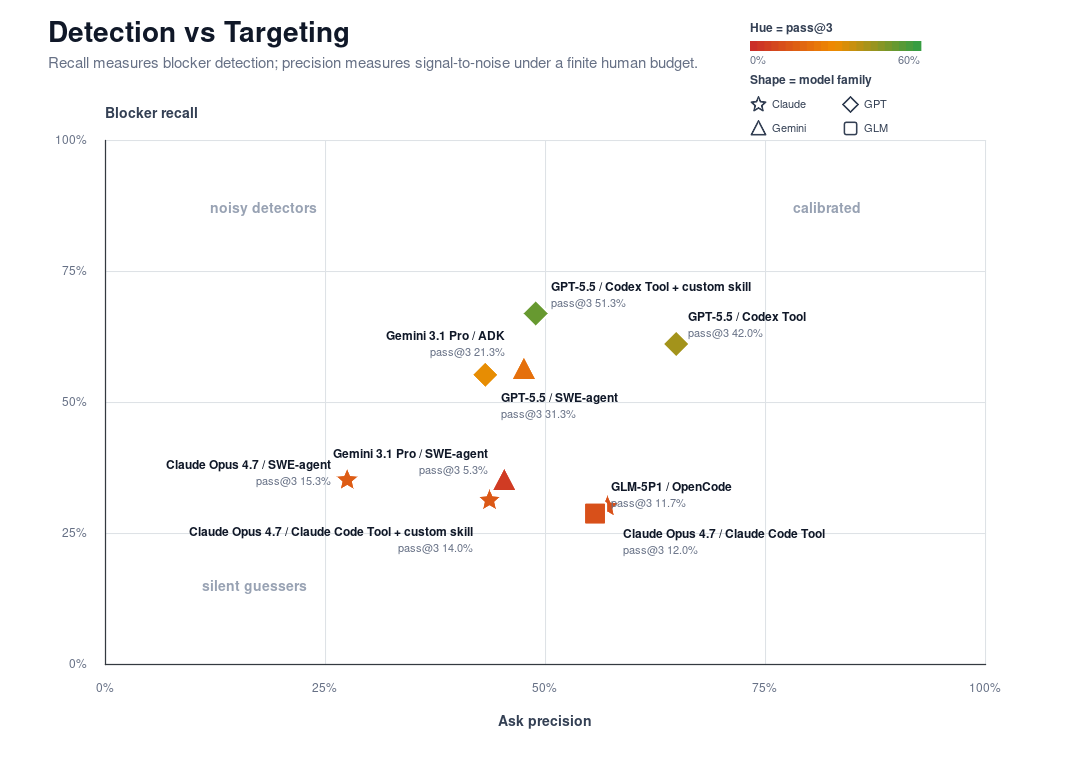
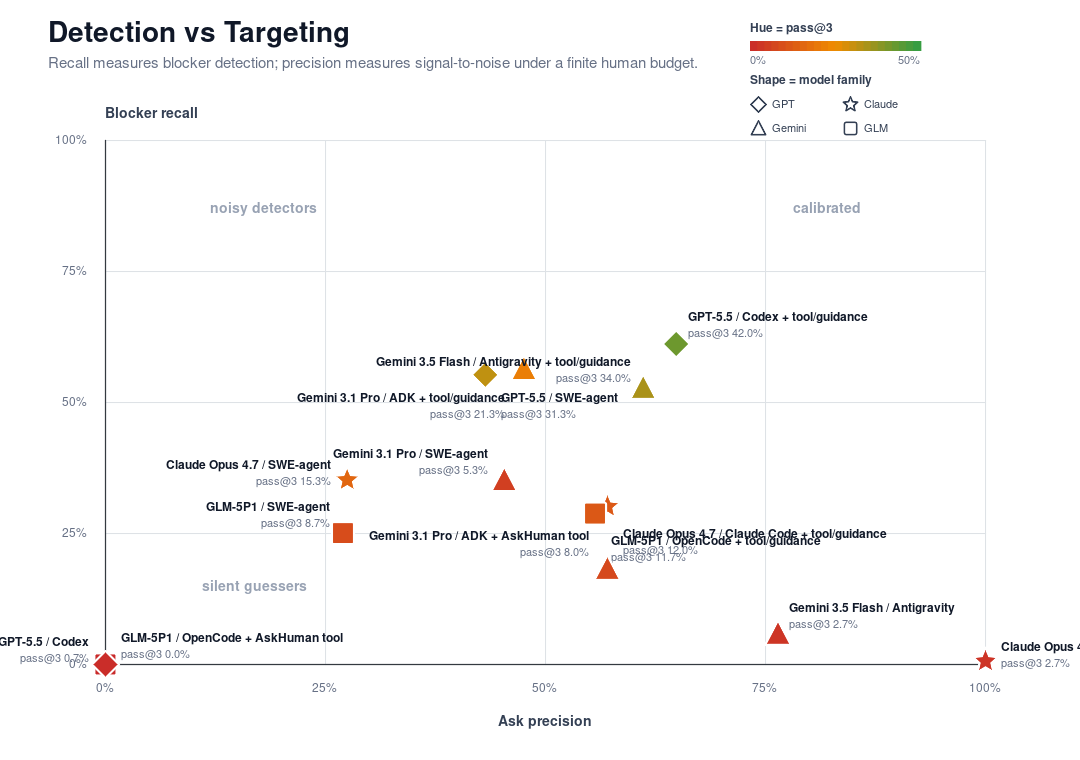
initial release

diff --git a/analysis/draft.md b/analysis/draft.md
@@ -1,0 +1,263 @@
+# HiL-Dynamics Narrative Working Draft: Understanding Agents That Don't Know What They Don't Know
+
+This is a rough coauthor-facing draft, not final prose. The goal is to merge the current figure-backed analysis with the newer tool/skill-in-the-loop framing quickly enough that others can revise, correct labels, and decide which figures to keep. Structure follows the public blog's three-finding backbone; supporting detail beyond what the blog has space for is preserved here.
+
+## Introducing HiL-Dynamics
+
+Earlier this year we released HiL-Bench, a benchmark to measure how well a coding agent can ask for help when faced with underspecified problems. The gap between a fully specified and underspecified prompt is large: agents with full information have an 80-90% pass@3, while agents with only partial information and an `ask_human()` tool top out at around 30%. The accompanying paper termed the common failure pattern **selective escalation**: the ability to identify when necessary information cannot be ascertained from the current context and ask for help from a human before continuing implementation.
+
+We presented results using the SWE-agent harness. Since then, many harnesses and frameworks have been developed, including complete agentic ones such as Claude-Code and Codex. As a result, selective escalation is no longer a model-only property, but rather that of the entire agentic system. However, no matter how sophisticated agentic systems become, there will always be some context locked in someone's head: product intent, business norms, or the one thing the PM never wrote down.
+
+Most people are working towards agentic autonomy. But facing underspecified problems with hidden context, it must be balanced with agentic trustworthiness. We introduce HiL-Dynamics, a diagnostic tool that unpacks how different agent configurations ask, explore, and fail with underspecified tasks. It runs HiL-Bench-style tasks across harnesses, then dissects the trajectories: when agents explore, when they ask, what they ask, whether they recover from bad questions, and how failed runs end.
+
+We ran five native harness/model setups, including two Google-backed systems:
+
+- Claude-Code SDK with Claude Opus 4.7
+- Codex SDK with GPT 5.5
+- Google-ADK with Gemini 3.1 Pro Preview
+- OpenCode with GLM 5.1
+- Google Antigravity with Gemini 3.5 Flash
+
+We compare four conditions — see the Conditions table below. The headline figure in Finding 1 focuses on Full_Info vs native; tool/guidance and custom skill are reported later as scaffold-level interventions.
+
+### Conditions
+
+| Condition | What it provides | Used in |
+|---|---|---|
+| `Full_Info` | Missing context supplied up front; agents do not need to ask. | Finding 1 (upper-bound control) |
+| `native` | Native ask affordance only — `AskUserQuestion` (Claude-Code), `requestUserInput` (Codex/Antigravity), or the custom `ask_human()` MCP for ADK/OpenCode. No skill or escalation guidance beyond harness defaults. | Findings 1, 2, 3 |
+| `tool/guidance` | Native plus the shared escalation guidance package in the system prompt; Claude-Code and Codex additionally get a custom `ask_human()` MCP tool. | Findings 2, 3 |
+| `custom skill` | Tuned `skill9` template (Claude-Code and Codex only), layered on top of `tool/guidance`. | Findings 2, 3 |
+
+TODO: confirm whether `baseline` is strictly the default system prompt or already includes minimal escalation framing — this determines whether Finding 1's gap is reported as native-harness behavior or a partially-instructed baseline.
+
+### Two Distinct Contributions
+
+This draft makes two contributions that should be kept separate when others read or revise it:
+
+- **Evaluation claim:** modern agentic harnesses still leave large pass@3 on the table when faced with underspecification (Finding 1). This claim stands on existing data.
+- **Design claim:** the diagnostic surfaces specific failure modes — blocker recall, escalation timing, recovery behavior, terminal-state mix — that motivate scaffold-level interventions, and we show one such intervention (skill-in-the-loop) recovers substantial performance (Findings 2 and 3). This claim depends on the skill-in-the-loop runs landing as currently reported.
+
+Keeping these separate matters because the evaluation claim does not need the design claim to hold up. If the skill-in-the-loop intervention is later revised or weakened, the evaluation claim still stands.
+
+**Key findings:**
+
+1. **The performance gap survives scaffolding improvements.** Even with stronger harnesses, agents still struggle to decide *when* to ask for help.
+2. **Skill engineering is a concrete handle.** Tuning the skill spec raises Codex pass@3 from 0.07 to 0.53 and ask-F1 from 0.20 to 0.62; gains for Claude-Code are more modest (pass@3 0.03 → 0.15), and no single template works universally across harnesses.
+3. **Agents (harness + model) show very different strategies and failure patterns, and their optima diverge.**
+
+## Finding 1: The Performance Gap Still Exists
+
+We first gather agent performance directly out-of-the-box, with the harnesses' default system prompts. Claude-Code and Codex both have native question-asking capabilities (`AskUserQuestion` and `requestUserInput`, respectively), while ADK and OpenCode do not. For the latter we provided our own custom MCP tool that mirrors HiL-Bench's original `ask_human()` tool.
+
+Selective escalation remained difficult, even when the harness provides the means to receive help. The two SDKs without native asking tools (ADK and OpenCode) produced different problem-solving approaches from their SWE-agent equivalents; model capability is not the only factor in performance here. On the other hand, the two agent SDKs that *do* have native asking tools (Codex and Claude-Code) didn't use them, largely due to the scaffold severely discouraging or preventing escalation during implementation. Based on our findings, we believe teaching agents to interweave exploration, planning, asking, and implementing in one go is an important area of future work.
+
+### 1a: Native current-gen harnesses do well with full info, poorly without it
+
+Full_Info pass@3 sits around 75–80% across systems — ADK/Gemini `80.0%`, OpenCode/GLM `79.3%`, Codex/GPT 5.5 `78.0%`, Claude-Code/Claude Opus `76.7%`, Antigravity/Gemini Flash `75.0%`. In the baseline condition (native ask tools only, or AskHuman-tool-only for SDKs without native escalation), pass@3 collapses: ADK/Gemini `8.0%`, Claude-Code/Claude Opus `2.7%`, Antigravity/Gemini Flash `2.7%`, Codex/GPT 5.5 `0.7%`, OpenCode/GLM `0.0%`.
+
+The shared tool/guidance setup moves Codex, Antigravity, and ADK substantially: Codex reaches `42.0%` pass@3, Antigravity `34.0%`, and ADK `21.3%`. Claude-Code (`12.0%`) and OpenCode (`11.7%`) barely move (note: OpenCode's number has parser/submission caveats — see Finding 3d before drawing strong conclusions about OpenCode here). This is the broad setup comparison; we keep the tuned custom-skill rows out of this figure so the first finding does not mix generic harness augmentation with the later skill-specific intervention.
+
+![Full_Info vs AskHuman pass@3](figures/01_same_model_different_scaffold.png)
+
+![Codex-only selective escalation gap](figures/15_codex_selective_escalation_gap.png)
+
+### 1b: Blocker Recall vs Ask Precision
+
+To more directly assess how well these agentic systems selectively escalate, we use our original paper's ask-F1 metric, split into **Blocker Recall** (how many real blockers the agent surfaced) and **Ask Precision** (how many of its questions were relevant). Together they answer two practical questions: if there's a blocker, can I trust the system to clarify? And can it finish work without bothering the user indiscriminately?
+
+Harness variations can move recall or precision substantially, but every system we tested still struggles with Blocker Recall. Several systems hit reasonable precision when they choose to ask — Native Codex/GPT 5.5 `71.8%`, Native Codex + tool/guidance `67.2%`, Claude-Code `65.4%`, OpenCode `63.1%` — but recall lags far behind: Claude-Code `26.7%`, OpenCode `34.5%`, Native Codex `38.0%`. Tool variants help: GPT 5.5 under Native Codex + tool/guidance reaches `61.5%` recall versus `38.0%` on Native Codex.
+
+As above, this diagnostic plot keeps the tuned custom-skill rows out of the broad comparison. That keeps Detection vs Targeting aligned with the baseline and shared tool/guidance setup, while the custom-skill precision/recall tradeoff is handled in Finding 2.
+
+![Detection vs targeting](figures/02_detection_targeting.png)
+
+These results reiterate HiL-Bench's original finding: agents still can't reliably decide when to ask for help. Even strong modern harnesses don't close the gap.
+
+## Finding 2: Skill Engineering as a Concrete Handle
+
+The constructive punchline: HiL-Bench is useful not only as a benchmark, but as feedback for building better coding agents. In real engineering workflows we never deploy a model alone — we wrap it in project-specific skills, tools, conventions, and escalation guidance. **Skill-in-the-loop** is the harness-design layer where we tune that wrapper.
+
+We provided Claude-Code and Codex with thorough, well-written skill and escalation guidance in the system prompt, plus a custom `ask_human()` MCP tool — hypothesizing that the custom tool would be free from the bounds of their native training or prompting restrictions. The results are much better, with all SDKs showing significant improvement. All agents ask much more frequently, and Claude-Code and Codex utilize the custom tool more effectively than they do their native tool.
+
+Our current custom-skill runs are the first concrete intervention. They use four `example9` shards (`skill_smoke10`, `smoke40`, `smoke50b`, `smoke50c`). The latest regeneration evaluates all three passes cleanly for all 150 custom-skill tasks on both Codex and Claude. The only remaining infra errors in ingested native runs are four OpenCode baseline pass rows.
+
+![Customization effects on pass@3](figures/16_custom_skill_metric_lift.png)
+
+| system | clean tasks | pass@1 | pass@3 | Ask Precision | Blocker Recall | ask-F1 | avg questions |
+|---|---:|---:|---:|---:|---:|---:|---:|
+| `Claude Opus 4.7 / Native Claude-Code + custom skill` | `150` | `10.0%` | `14.0%` | `43.6%` | `31.3%` | `36.5%` | `2.55` |
+| `GPT 5.5 / Native Codex + custom skill` | `150` | `36.7%` | `51.3%` | `48.9%` | `67.0%` | `56.5%` | `4.87` |
+
+Skill text is not documentation. It is a behavioral prior — it shapes what the agent believes it is supposed to do before it reads a line of code.
+
+### What kinds of skill techniques helped
+
+Beyond just better performance, we uncovered interesting responses to different skill techniques:
+
+- **When-to-ask guidance** intuitively bettered performance.
+- **How-to-formulate guidance** also bettered performance — somewhat surprising, given the agents already know how to write questions in general.
+- **Emotional language** — leveraging the agents' trained desire to fulfill requests with strong framing that they would fail if they don't ask — also yielded a performance boost.
+
+### Six skill levers
+
+The custom-skill sweep surfaced six non-leaking dimensions that independently steer behavior:
+
+- **Gate** — eligibility condition for asking. Narrow gates restrict asking to rare cases ("cannot resolve from codebase"); wide gates make asking the default when implementation details remain uncertain.
+- **Mandate** — force of the instruction to ask. Stronger mandates use language like "MUST ask" and explicit failure framing. The gate says *when*; the mandate says *with what conviction*.
+- **Pre-Ask Sequence** — silent ordering step before asking. For example: enumerate blockers, pick the highest-impact unasked blocker, then ask. Controls cognitive ordering, not wording.
+- **Question Quality Scaffolding** — definition of a good question, usually through bad/good examples or artifact anchors (file, function, schema field, test, observed behavior).
+- **Anti-Fragmentation / COMBINE** — rule that related candidate questions about one artifact merge into a single question. Prevents burning asking opportunities on fragments of one decision.
+- **Search Budget** — cap on local exploration before asking. Constrains indefinite search and acts as a tie-breaker when the gate is wide.
+
+### Harnesses respond to skills differently
+
+There is no universal best template. Different harnesses start from different priors. **Claude-Code is structurally conservative** — its default behavior is silence, its failure mode is under-asking, and across all our experiments its natural questions-per-pass sits between `0.21` and `2.45`. **Codex is more permissive** — its default behavior is spray, its failure mode is over-asking, and across the same experiments its natural questions-per-pass sits between `0.50` (`example1_`) and `4.66` (`example4_`).
+
+That baseline divergence propagates through every lever. As a simple case study: with a given set of skill modifications — a stronger ask mandate (escalating to "MUST use skill multiple times"), removal of the per-pass question cap, and a bad/good question filter (i.e. ruling out "how to implement X?" in favor of "what is the return type of X?") — Claude-Code increased its questions-per-pass by **147%**, while Codex's improvement was a mere **16%**. On the other hand, what really triggered Codex's improvement was providing it the custom `ask_human()` tool *in addition to* its native tool; skill modifications had less influence.
+
+Comparing `example9_` against `example7_`, the same template changes moved Claude's questions per pass far more than Codex's. Skill engineering is per-harness, not one-size-fits-all prompting.
+
+Draft design rules:
+
+- Diagnose the harness prior by measuring questions/pass on a vanilla template.
+- For conservative harnesses, push procedurally: wider gate, stronger mandate, enumerate-first pre-ask sequence.
+- For permissive harnesses, use precision levers: question-quality examples, COMBINE, clearer artifact anchors.
+- Don't stack every "ask more" rule into permissive harnesses — it inflates noise.
+- Treat COMBINE as a broadly useful precision lever.
+- Optimize the skill for the harness you care about, and expect different harnesses to need different skills.
+
+### Skill evolution notes
+
+> **Working notes for coauthors; candidate for appendix or removal before any external draft.** `Alina` refers to a reference prompt-skill template used as a comparison baseline (TODO: gloss or rename before any external version). The `smoke*` shards (e.g., `smoke10`, `smoke40`, `smoke50b`, `smoke50c`) are internal task-set names and also need glossing.
+
+These ablation notes are merged from the latest skill-in-the-loop draft. Validate against final experiment tables before public use.
+
+**Full-run path, examples 1 → 4 → 7 → 9:**
+
+- `example1_ → example4_` — Moved every lever toward "ask more, ask better": wider Gate, stronger Mandate, enumerate-first Pre-Ask Sequence, COMBINE, explicit artifact anchors, tighter Search Budget, plus a quantity floor and ceiling. Biggest metric jump, but methodologically tainted — quantity hints leak the benchmark blocker distribution.
+- `example4_ → example7_` — Removed the floor with other levers held constant. Claude questions/pass and recall dropped; Codex barely moved. The floor was doing real recall work for Claude, and counts as leakage.
+- `example7_ → example9_` — Removed the ceiling and adopted Alina's most aggressive non-leaking settings: wide Gate, strong Mandate, bad/good question quality scaffolding, five-step Search Budget, plus our Pre-Ask Sequence and COMBINE. Recall recovered, precision dropped, F1 landed close to Alina's.
+- `example9_` vs Alina — Our additions appear to improve operational solve rate (especially for Codex) at some F1 cost. Under-tapped levers — Pre-Ask Sequence, COMBINE, artifact-anchor scaffolding — can lift pass@k even when they don't maximize F1.
+
+**Smoke-test path, examples 1 – 10:**
+
+- `example1_` — Diagnoses what kills recall: narrow Gate plus search-first behavior gives high precision but very low recall.
+- `example2_` – `example6_` — Find what wins F1 but cheats: the best headline template uses quantity hints that leak blocker distribution.
+- `example7_` – `example10_` — De-leak. `example9_` is the current full-run non-leaking template. `example10_` strengthens COMBINE with a worked canonical-decision example and is the first smoke result noted as beating Alina on Codex F1.
+
+## Finding 3: Agents Show Different Problem-Solving Patterns
+
+HiL-Dynamics lets us look past aggregate pass rates and examine how an agent actually moved through an underspecified task. Two agents may fail for different reasons: one may write before resolving blockers; another may fail to validate its patches.
+
+Examining trajectories surfaces what aggregate metrics miss. We highlight four aspects here.
+
+### 3a: Model families have a characteristic strategy shape under a fixed harness
+
+Under SWE-agent, related model families exhibit similar explore/ask/write shapes. GPT models ask early; Claude models do more early exploration before asking. Trajectory shape is a repeatable behavioral signature, not run-to-run noise.
+
+![SWE-agent model-family strategy](figures/13_swe_agent_model_family_strategy.svg)
+
+### 3b: The same model bends to the harness
+
+That family-level signature is not harness-invariant. GPT 5.5 asks early under SWE-agent, shifts toward early exploration under Native Codex, and — with the tuned custom skill — still explores first but asks more consistently before writing. Codex + custom skill is the extreme case: `99.8%` of pass rows ask before editing, median first ask at turn `18`, median first write at turn `36`.
+
+To compare cleanly, we collapse each trajectory into a strategy bucket — asked upfront, explored then asked, wrote before asking, or never asked:
+
+- `GPT 5.5 / Native Codex + tool/guidance`: `84.8%` explored then asked before writing; `11.9%` asked upfront; `3.3%` never asked.
+- `GPT 5.5 / Native Codex + custom skill`: essentially all explore-then-ask-before-write (`100%` in the strategy CSV, `99.8%` in the timing CSV).
+- `GPT 5.5 / SWE-agent`: `70.4%` asked upfront before reading; `29.6%` explored then asked.
+- `GPT 5.5 / Native Codex`: `70.9%` explored then asked; `17.0%` upfront; `11.2%` never asked.
+- `Claude Opus 4.7 / Native Claude-Code`: roughly half explored then asked, but `43.5%` never asked.
+- `Claude Opus 4.7 / Native Claude-Code + custom skill`: `59.6%` explored then asked; `10.2%` wrote before asking; `29.8%` never asked.
+- `GLM 5.1 / Native OpenCode`: roughly split between explored-then-asked and no-ask (parser/harness caveat below).
+
+First-ask timing shifts the same way — Claude Opus 4.7 asks later under Claude-Code than under SWE-agent, for instance.
+
+![Codex strategy buckets](figures/14_codex_strategy_buckets.png)
+
+![GPT 5.5 trajectory strategy fingerprints](figures/17_gpt55_trajectory_strategy_fingerprints.png)
+
+![Strategy buckets](figures/05_strategy_buckets.png)
+
+![First ask timing](figures/08_first_ask_timing.png)
+
+### 3c: Recovery after a bad first ask
+
+Strong agents shouldn't only avoid bad questions — they should notice when a question missed the blocker, sharpen the next one, and still finish the task.
+
+Using trace-level ask sequences, we deterministically mark the first irrelevant or incorrect `ask_human()` as `I` and a blocker resolution as `R`. For Codex we filter out MCP permission prompts, which are harness permission events rather than clarification questions.
+
+Percentages below use first-failed-ask runs as the denominator. The table is regenerated from `data/bad_first_ask_recovery.csv`.
+
+| system | first failed ask runs | solved after first failed ask | asked later relevant question | solved after later relevant question |
+|---|---:|---:|---:|---:|
+| `GPT 5.5 / SWE-agent` | 135 | 15.6% | 71.1% | 15.6% |
+| `GPT 5.5 / Native Codex` | 67 | 6.0% | 16.4% | 1.5% |
+| `GPT 5.5 / Native Codex + tool/guidance` | 107 | 19.6% | 57.0% | 17.8% |
+| `GPT 5.5 / Native Codex + custom skill` | 118 | 30.5% | 72.9% | 28.8% |
+| `Claude Opus 4.7 / SWE-agent` | 158 | 5.1% | 46.8% | 4.4% |
+| `Claude Opus 4.7 / Native Claude-Code` | 63 | 6.3% | 20.6% | 0.0% |
+| `Claude Opus 4.7 / Native Claude-Code + tool/guidance` | 59 | 0.0% | 18.6% | 0.0% |
+| `Claude Opus 4.7 / Native Claude-Code + custom skill` | 86 | 1.2% | 37.2% | 1.2% |
+| `Gemini 3.1 Pro / SWE-agent` | 112 | 0.9% | 83.0% | 0.9% |
+| `Gemini 3.1 Pro / Native ADK` | 102 | 5.9% | 56.9% | 5.9% |
+
+Codex + custom skill is the cleanest positive case: after a bad first ask, it more often asks a later relevant question and more often solves after doing so. Claude-Code + custom skill lifts the later-relevant-question rate but does not translate that into solves in this deterministic trace proxy.
+
+### 3d: Failed runs end in different terminal states
+
+Failed AskHuman trajectories terminate in deterministically distinguishable states, which lets us diagnose how systems fail before, around, or after the help-seeking step. Failures vary not only by model, but also by harness.
+
+The custom-skill rows clarify what shifted under Codex. Among unresolved `GPT 5.5 / Native Codex + custom skill` passes, `35.5%` end as patch-made/no-submit, `32.4%` as local-green/hidden-red, `16.9%` as visible-red-at-end, and `15.2%` as weak-validation-only — substantive work failing to close the loop, not refusal to engage. Claude + custom skill looks similar (`37.9%` local-green/hidden-red, `35.7%` patch-made/no-submit).
+
+> **OpenCode caveat.** OpenCode/GLM exhibits a disproportionately large patch-made/no-submit share in this figure. We do not yet know whether this reflects substantive harness behavior (the agent constructs a patch but never invokes the submission step), a submission-mechanic difference between OpenCode and the other harnesses, or a trajectory-parser artifact in how we identify `submit` events in OpenCode traces. Resolve before publication. Until then, treat OpenCode's terminal-state share as provisional and do not lean on it for scaffold-level claims.
+
+![Terminal evidence mix](figures/04_terminal_evidence_mix.png)
+
+## Takeaways
+
+In real-world settings, human collaboration often means digging up information locked in people's heads and asking for clarification. Across our HiL-Dynamics experiments on different state-of-the-art agent harnesses, agents consistently struggle with this capability. No matter the harness or model, selective escalation on underspecified coding tasks remains an obstacle.
+
+Each setup, however, balances exploration and escalation differently and fails in different shapes — suggesting targeted areas of improvement for future generations of models and harnesses, and enabling users to decide for themselves which setup best suits their needs. After all, almost all problems encountered in real-world engineering situations will be underspecified; users frequently write vague problems and hold hidden assumptions or tribal knowledge. We as a community need to push towards agents that aren't just capable of solving solo, but also of knowing when they need to ask for context hidden away in people's heads.
+
+The unit of analysis is the whole `{model, harness, customization}` system — harnesses and skills change pass@3, ask-F1, question burden, strategy shape, and terminal failure anatomy. HiL-Dynamics is meant to make these differences visible: a way to evaluate whether a setup is **trustworthy** enough to surface blockers, **autonomous** enough not to ask indiscriminately, and **steerable** enough that targeted harness or skill changes improve behavior.
+
+## Methodology Notes
+
+These need verification before public-facing text:
+
+- **Task set and intersection.** TODO: state whether the pass@3 and Ask-F1 numbers in Findings 1 and 2 are computed over each condition's full task set or only over tasks present in all conditions being compared. With pass@3 swings of 70+ percentage points between `Full_Info` and `baseline`, the per-system ranking only stands if denominators are intersected. Report `num_tasks` and `num_intersected_tasks` per cell.
+- **N per cell.** TODO: state tasks × passes per `{model, harness, condition}` cell. The custom-skill cells are stated as 150 tasks × 3 passes; native baseline and `tool/guidance` cells need to be confirmed.
+- **Confidence intervals.** TODO: decide whether bootstrap CIs are reported on the main figures. The headline `Full_Info` vs `baseline` gap is large enough that CIs do not change the qualitative story, but the per-system rankings in Finding 1b and the strategy bucket percentages in Finding 3b are CI-sensitive.
+- **Ask-relevance judge.** Ask Precision and Blocker Recall depend on a per-ask relevance label. TODO: state which judge produced these labels, whether the same judge was used across all five systems, and what the audit / calibration status is. If the judge has not been audited, the Finding 1b ranking is provisional.
+- **Task split.** TODO: confirm whether the headline numbers are over the public HiL-Bench split, the private split, or both, and whether the public version of this draft restricts to the public split until private rerun / image issues are resolved.
+- **Trajectory parsing parity.** Strategy buckets and timing depend on the trajectory parser identifying `ASK`, `READ`, `WRITE`, and `TEST` actions across five different harness formats. The OpenCode `patch-made/no-submit` share called out in Finding 3d is the largest outstanding parser/harness question.
+
+## Open Questions
+
+- Is OpenCode's `patch-made/no-submit` share in Finding 3d substantive harness behavior or a parsing/submission artifact? (See also the Methodology / `baseline` framing TODOs.)
+- Is Antigravity headline-only (Finding 1), or should Findings 3a–3d include Antigravity strategy and terminal-state breakdowns? It currently appears in the headline numbers but is not dissected later.
+- Should the public version restrict to the public HiL-Bench task split until private rerun / image issues are resolved?
+- Do we have validated answer-incorporation judging, or should Finding 2 / Finding 3c claims about "answer used" or "recovery" remain deterministic trace proxies?
+- Should `tool/guidance` and `custom skill` be reported as scaffold-level interventions distinct from the native baseline (preserving the evaluation-vs-design separation), or merged into a single "post-tuning" narrative?
+- Is the "Skill evolution notes" subsection in Finding 2 (`example1` → `example4` → `example7` → `example9`, references to Alina's settings, smoke shards) appropriate for coauthor circulation, or should it move to an appendix before any external draft?
+
+## Figure Inventory
+
+| Figure | Used in | Role | Status |
+|---|---|---|---|
+| `01_same_model_different_scaffold` | Finding 1a | Primary: performance gap exists | ready |
+| `15_codex_selective_escalation_gap` | Finding 1a | Codex deep-dive | ready |
+| `02_detection_targeting` | Finding 1b | Primary: blocker recall vs ask precision | ready, pending judge provenance |
+| `16_custom_skill_metric_lift` | Finding 2 | Primary: constructive result | ready |
+| `13_swe_agent_model_family_strategy` | Finding 3a | Primary: model-family strategy fingerprint | ready (SVG; format-consistency TODO) |
+| `14_codex_strategy_buckets` | Finding 3b | Codex strategy detail | ready |
+| `17_gpt55_trajectory_strategy_fingerprints` | Finding 3b | GPT 5.5 trajectory fingerprint | ready |
+| `05_strategy_buckets` | Finding 3b | Cross-system strategy summary | ready |
+| `08_first_ask_timing` | Finding 3b | First-ask timing diagnostic | ready |
+| `04_terminal_evidence_mix` | Finding 3d | Terminal-state decomposition | ready, pending OpenCode caveat |
+
+## Quickstart
+
+TODO: Add public-facing command snippet after final package/API shape is settled.